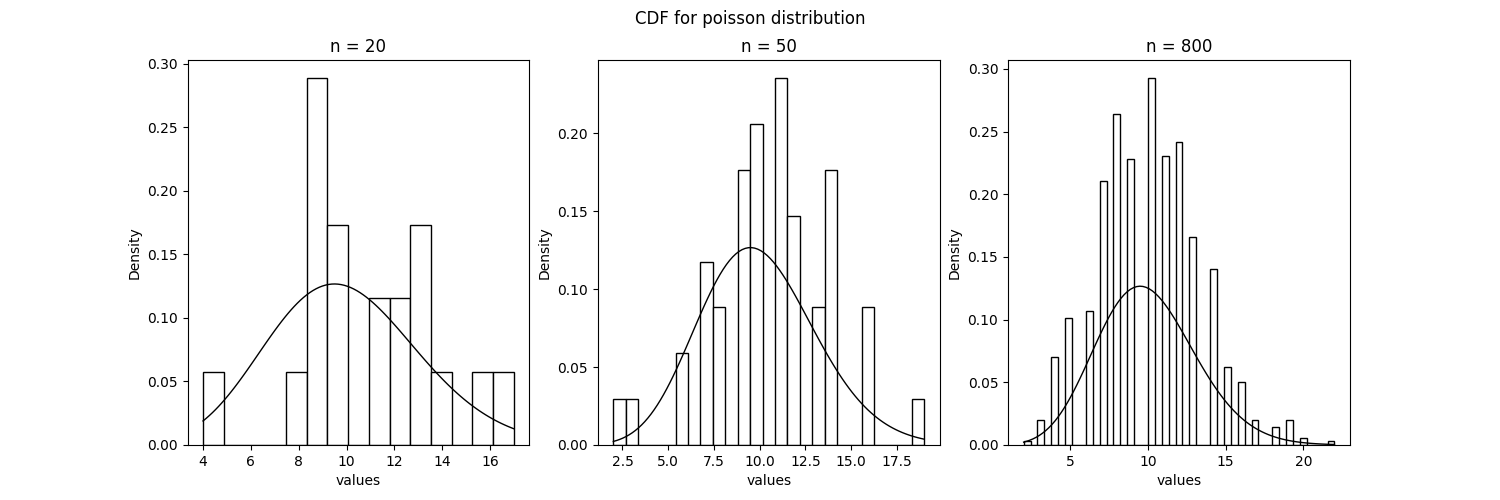
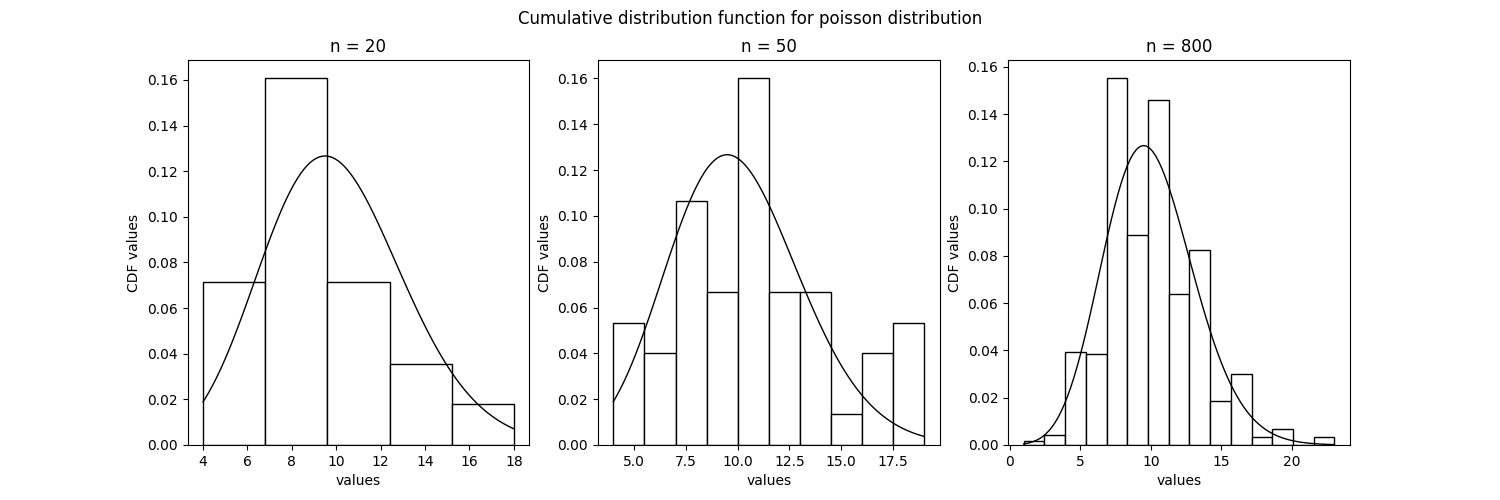
lab_new 1-4

diff --git a/lab3-4/lab3.py b/lab3-4/lab3.py
@@ -1,49 +1,141 @@
 import numpy as np
 import pandas as pd
+import math
+import scipy
 import matplotlib.pyplot as plt
 import seaborn as sns
-import math
 
-
-def normal_distribution(n):
-    return np.random.normal(0, 1, n)
-
-
-def cauchy_distribution(n):
-    return np.random.standard_cauchy(n)
-
-
-def student_distribution(n):
-    return np.random.standard_t(3, n)
-
-
-def poisson_distribution(n):
-    return np.random.poisson(10, n)
-
-
-def uniform_distribution(n):
-    return np.random.uniform(-math.sqrt(3), math.sqrt(3), n)
-
-
-distributions = [
-    ('normal', normal_distribution),
-    ('cauchy', cauchy_distribution),
-    ('student', student_distribution),
-    ('poisson', poisson_distribution),
-    ('uniform', uniform_distribution),
-]
 ns = np.array([20, 100])
+significance = 0.05
+confidence_level = 1 - significance / 2  # 0.975
 
-for distribution_name, distribution_f in distributions:
-    figure, axes = plt.subplots(2, 1, figsize=(20, 10))
+data = {
+    'n': [],
+    'mean_min': [],
+    'mean_max': [],
+    'dev_min': [],
+    'dev_max': [],
+}
 
-    for index, n in enumerate(ns):
-        values = distribution_f(n)
+figure, axes = plt.subplots(1, len(ns) * 2, figsize=(20, 10))
 
-        sns.boxplot(values, ax=axes[index], orient='h', color='lightgreen', medianprops=dict(color='orange'), whiskerprops=dict(color='green'), flierprops=dict(marker='o', markersize=5, markerfacecolor='red'))
+for index, n in enumerate(ns):
+    sample = np.random.normal(0, 1, n)
+    mean = sample.mean()
+    dev = np.std(sample)
+    student_value = scipy.stats.t.ppf(confidence_level, n)
+    chi_square_value_min = scipy.stats.chi2.ppf(1 - significance / 2, n)
+    chi_square_value_max = scipy.stats.chi2.ppf(significance / 2, n)
 
-        axes[index].set_xlabel('x')
-        axes[index].set_title(f'n = {n}')
+    mean_min = mean - dev * student_value / math.sqrt(n)
+    mean_max = mean + dev * student_value / math.sqrt(n)
 
-    figure.savefig(f'plots/{distribution_name}.png')
+    dev_min = math.sqrt(n) * dev / math.sqrt(chi_square_value_min)
+    dev_max = math.sqrt(n) * dev / math.sqrt(chi_square_value_max)
 
+    data['n'].append(n)
+    data['mean_min'].append(mean_min)
+    data['mean_max'].append(mean_max)
+    data['dev_min'].append(dev_min)
+    data['dev_max'].append(dev_max)
+
+    sns.histplot(sample, ax=axes[index], stat='density', color='#FFEFD0')
+    axes[index].axvline(x=mean_min, color='#D400C9', marker='o', markersize=10, linewidth=2)
+    axes[index].axvline(x=mean_max, color='#D400C9', marker='o', markersize=10, linewidth=2)
+    axes[index].axvline(x=mean_min - dev_max, color='#0007FF', marker='o', markersize=10, linewidth=2)
+    axes[index].axvline(x=mean_max + dev_max, color='#0007FF', marker='o', markersize=10, linewidth=2)
+
+sns.lineplot(x='x', y='y', data={
+    'x': np.array([data['mean_min'][0], data['mean_max'][0]]),
+    'y': np.array([1, 1]),
+}, ax=axes[2], color='#D400C9', marker='o', label='m interval n=20', markersize=10, linewidth=2)
+sns.lineplot(x='x', y='y', data={
+    'x': np.array([data['mean_min'][1], data['mean_max'][1]]),
+    'y': np.array([1.1, 1.1]),
+}, ax=axes[2], color='#0007FF', marker='o', label='m interval n=100', markersize=10, linewidth=2)
+axes[2].set_ylim(0.9, 1.4)
+axes[2].legend()
+
+sns.lineplot(x='x', y='y', data={
+    'x': np.array([data['dev_min'][0], data['dev_max'][0]]),
+    'y': np.array([1, 1]),
+}, ax=axes[3], color='#D400C9', marker='o', markersize=10, label='sigma interval n=20', linewidth=2)
+sns.lineplot(x='x', y='y', data={
+    'x': np.array([data['dev_min'][1], data['dev_max'][1]]),
+    'y': np.array([1.1, 1.1]),
+}, ax=axes[3], color='#0007FF', marker='o', markersize=10, label='sigma interval n=100', linewidth=2)
+axes[3].set_ylim(0.9, 1.4)
+axes[3].legend()
+
+figure.savefig('plots/hists.png')
+
+result_df = pd.DataFrame(data)
+result_df.to_csv('results/normal.csv', index=False)
+result_df
+
+significance = 0.05
+confidence_level = 1 - significance / 2  # 0.975
+
+data = {
+    'n': [],
+    'mean_min': [],
+    'mean_max': [],
+    'dev_min': [],
+    'dev_max': [],
+}
+
+figure, axes = plt.subplots(1, len(ns) * 2, figsize=(20, 10))
+
+for index, n in enumerate(ns):
+    sample = np.random.random(n)
+    mean = sample.mean()
+    s = math.sqrt(((sample - mean) ** 2 / n).sum())
+    m4 = ((sample - mean) ** 4).sum() / n
+    e = m4 / s ** 4 - 3
+    student_value = scipy.stats.t.ppf(confidence_level, n)
+
+    dev_min = s * (1 - 0.5 * student_value * math.sqrt(e + 2) / 10)
+    dev_max = s * (1 + 0.5 * student_value * math.sqrt(e + 2) / 10)
+
+    mean_min = mean - dev * student_value / math.sqrt(n)
+    mean_max = mean + dev * student_value / math.sqrt(n)
+
+    data['n'].append(n)
+    data['mean_min'].append(mean_min)
+    data['mean_max'].append(mean_max)
+    data['dev_min'].append(dev_min)
+    data['dev_max'].append(dev_max)
+
+    sns.histplot(sample, ax=axes[index], stat='density', color='#FFEFD0')
+    axes[index].axvline(x=mean_min, color='#D400C9', marker='o', markersize=7, linewidth=2)
+    axes[index].axvline(x=mean_max, color='#D400C9', marker='o', markersize=7, linewidth=2)
+    axes[index].axvline(x=mean_min - dev_max, color='#0007FF', marker='o', markersize=7, linewidth=2)
+    axes[index].axvline(x=mean_max + dev_max, color='#0007FF', marker='o', markersize=7, linewidth=2)
+
+sns.lineplot(x='x', y='y', data={
+    'x': np.array([data['mean_min'][0], data['mean_max'][0]]),
+    'y': np.array([1, 1]),
+}, ax=axes[2], color='#D400C9', marker='o', label='m interval n=20', markersize=7, linewidth=2)
+sns.lineplot(x='x', y='y', data={
+    'x': np.array([data['mean_min'][1], data['mean_max'][1]]),
+    'y': np.array([1.1, 1.1]),
+}, ax=axes[2], color='#0007FF', marker='o', label='m interval n=100', markersize=7, linewidth=2)
+axes[2].set_ylim(0.9, 1.4)
+axes[2].legend()
+
+sns.lineplot(x='x', y='y', data={
+    'x': np.array([data['dev_min'][0], data['dev_max'][0]]),
+    'y': np.array([1, 1]),
+}, ax=axes[3], color='#D400C9', marker='o', markersize=7, label='sigma interval n=20', linewidth=2)
+sns.lineplot(x='x', y='y', data={
+    'x': np.array([data['dev_min'][1], data['dev_max'][1]]),
+    'y': np.array([1.1, 1.1]),
+}, ax=axes[3], color='#0007FF', marker='o', markersize=7, label='sigma interval n=100', linewidth=2)
+axes[3].set_ylim(0.9, 1.4)
+axes[3].legend()
+
+figure.savefig('plots/hists1.png')
+
+result_df = pd.DataFrame(data)
+result_df.to_csv('results/random.csv', index=False)
+result_df

diff --git a/lab3-4/lab4.py b/lab3-4/lab4.py
@@ -70,7 +70,7 @@ axes[3].legend()
 figure.savefig('plots/hists.png')
 
 result_df = pd.DataFrame(data)
-result_df.to_csv('res4/normal.csv', index=False)
+result_df.to_csv('results/normal.csv', index=False)
 result_df
 
 significance = 0.05
@@ -105,5 +105,5 @@ for index, n in enumerate(ns):
     data['dev_max'].append(dev_max)
 
 result_df = pd.DataFrame(data)
-result_df.to_csv('res4/random.csv', index=False)
+result_df.to_csv('results/random.csv', index=False)
 result_df

diff --git a/lab1-2/graphics.py b/lab1-2/graphics.py
@@ -60,7 +60,7 @@ def print_graphics(N: list) -> None:
 
     names = ['normal', 'cauchy', "student's", 'poisson', 'uniform']
 
-    bins = [15, 25, 45]
+    bins = [5, 10, 15]
 
     for j in range(len(samples)):
         plt.figure(figsize=(15, 5))

diff --git a/lab1-2/main.py b/lab1-2/main.py
@@ -3,5 +3,5 @@ from characters import print_characters
 
 
 if __name__ == "__main__":
-    print_graphics([20, 50, 800])
+    print_graphics([20, 50, 1000])
     print_characters([20, 100, 1000])
